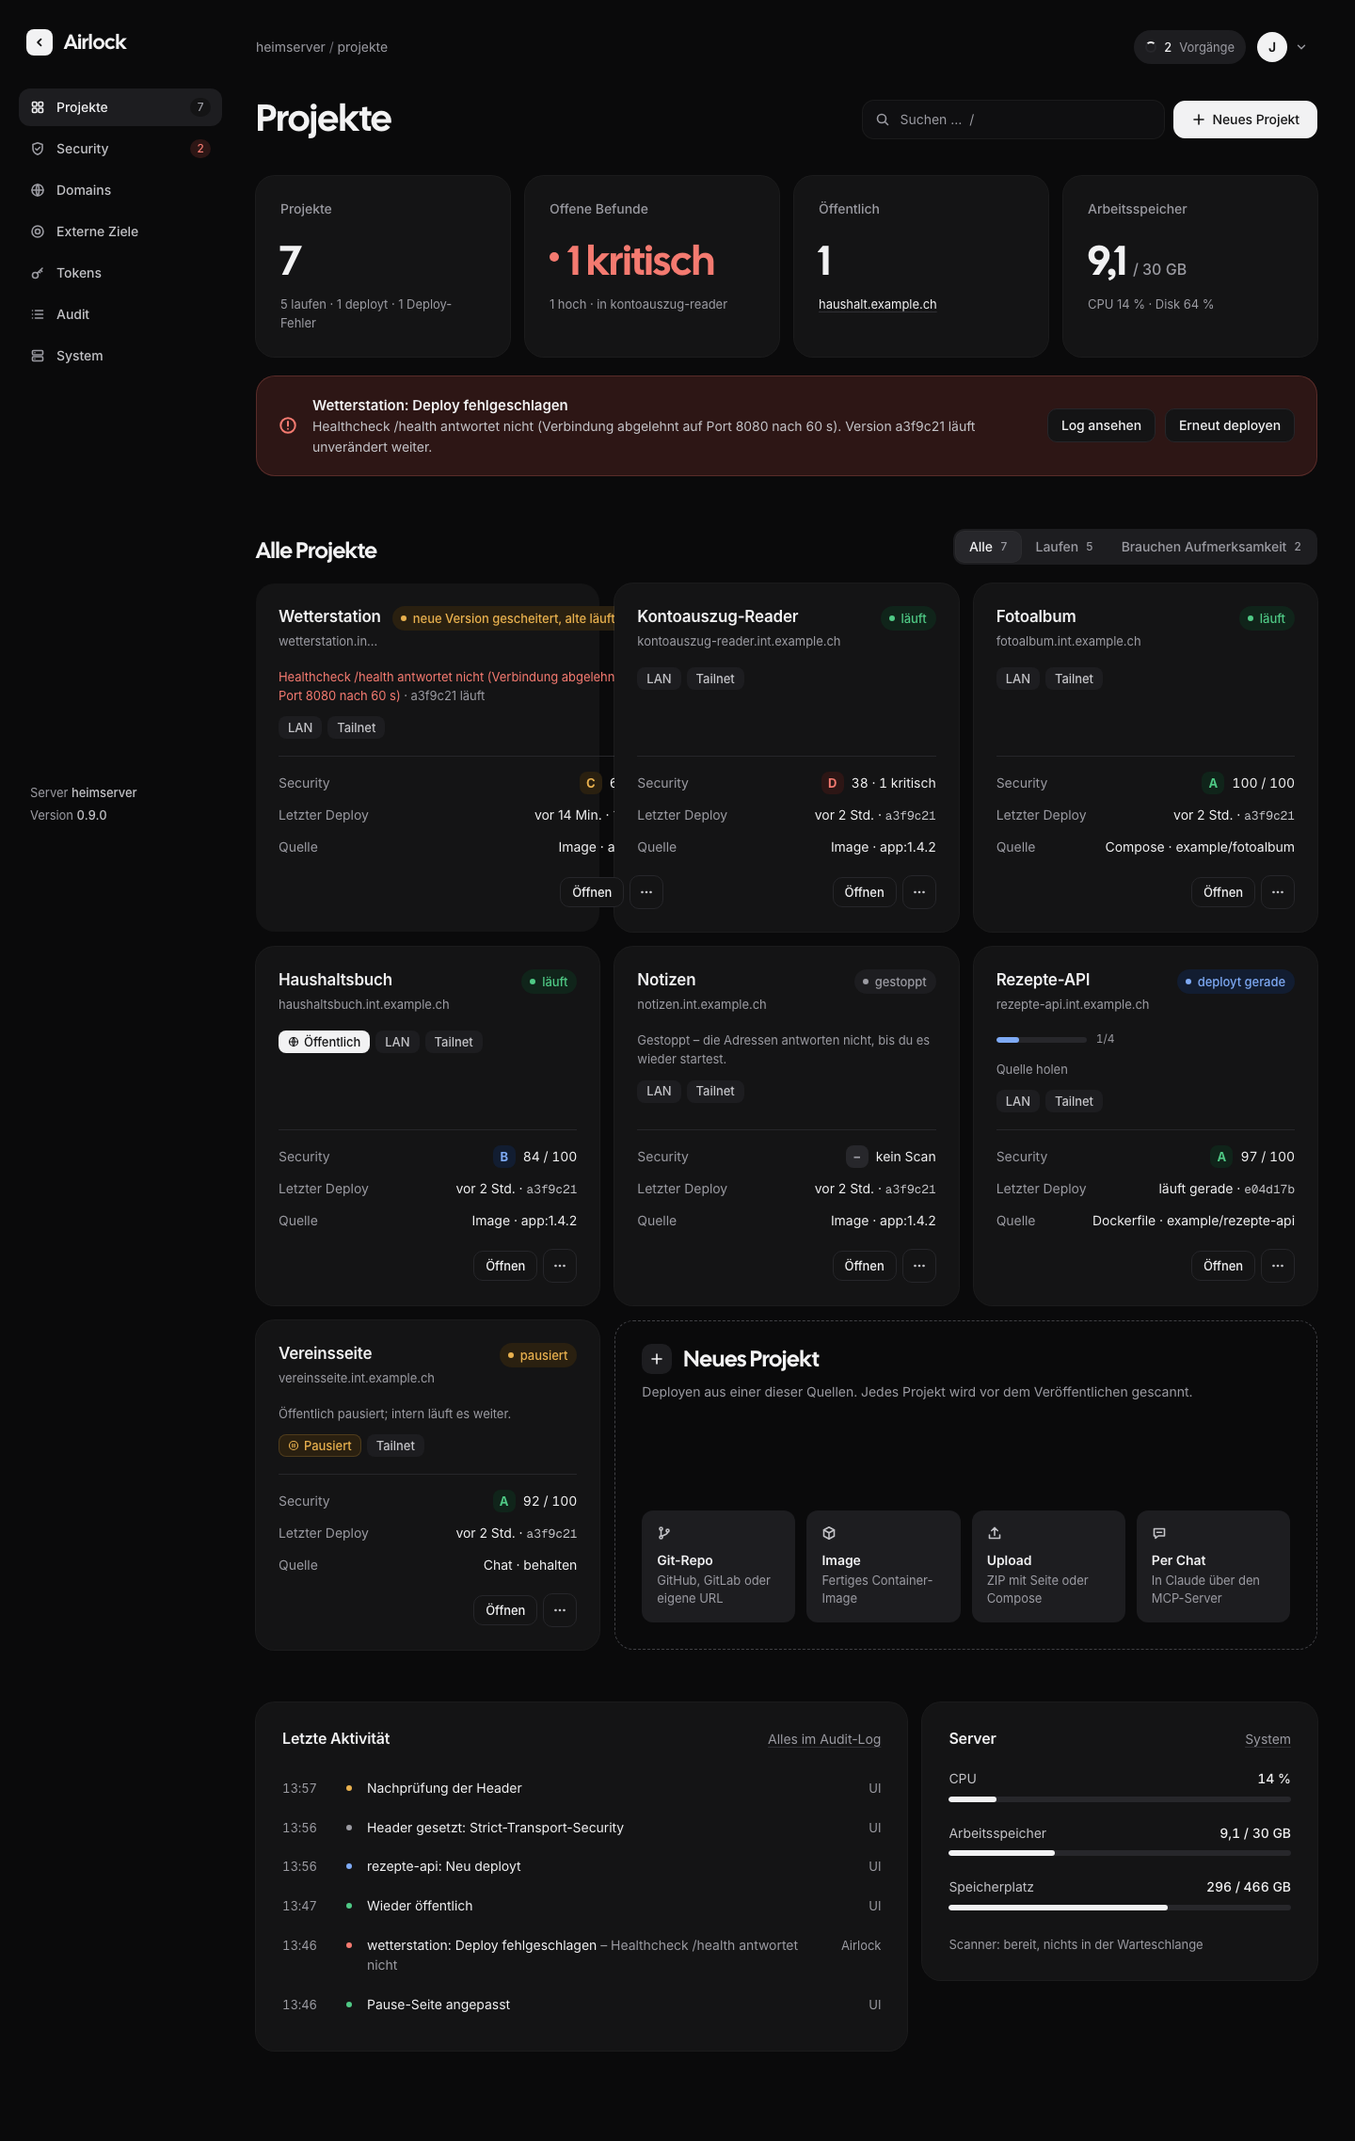
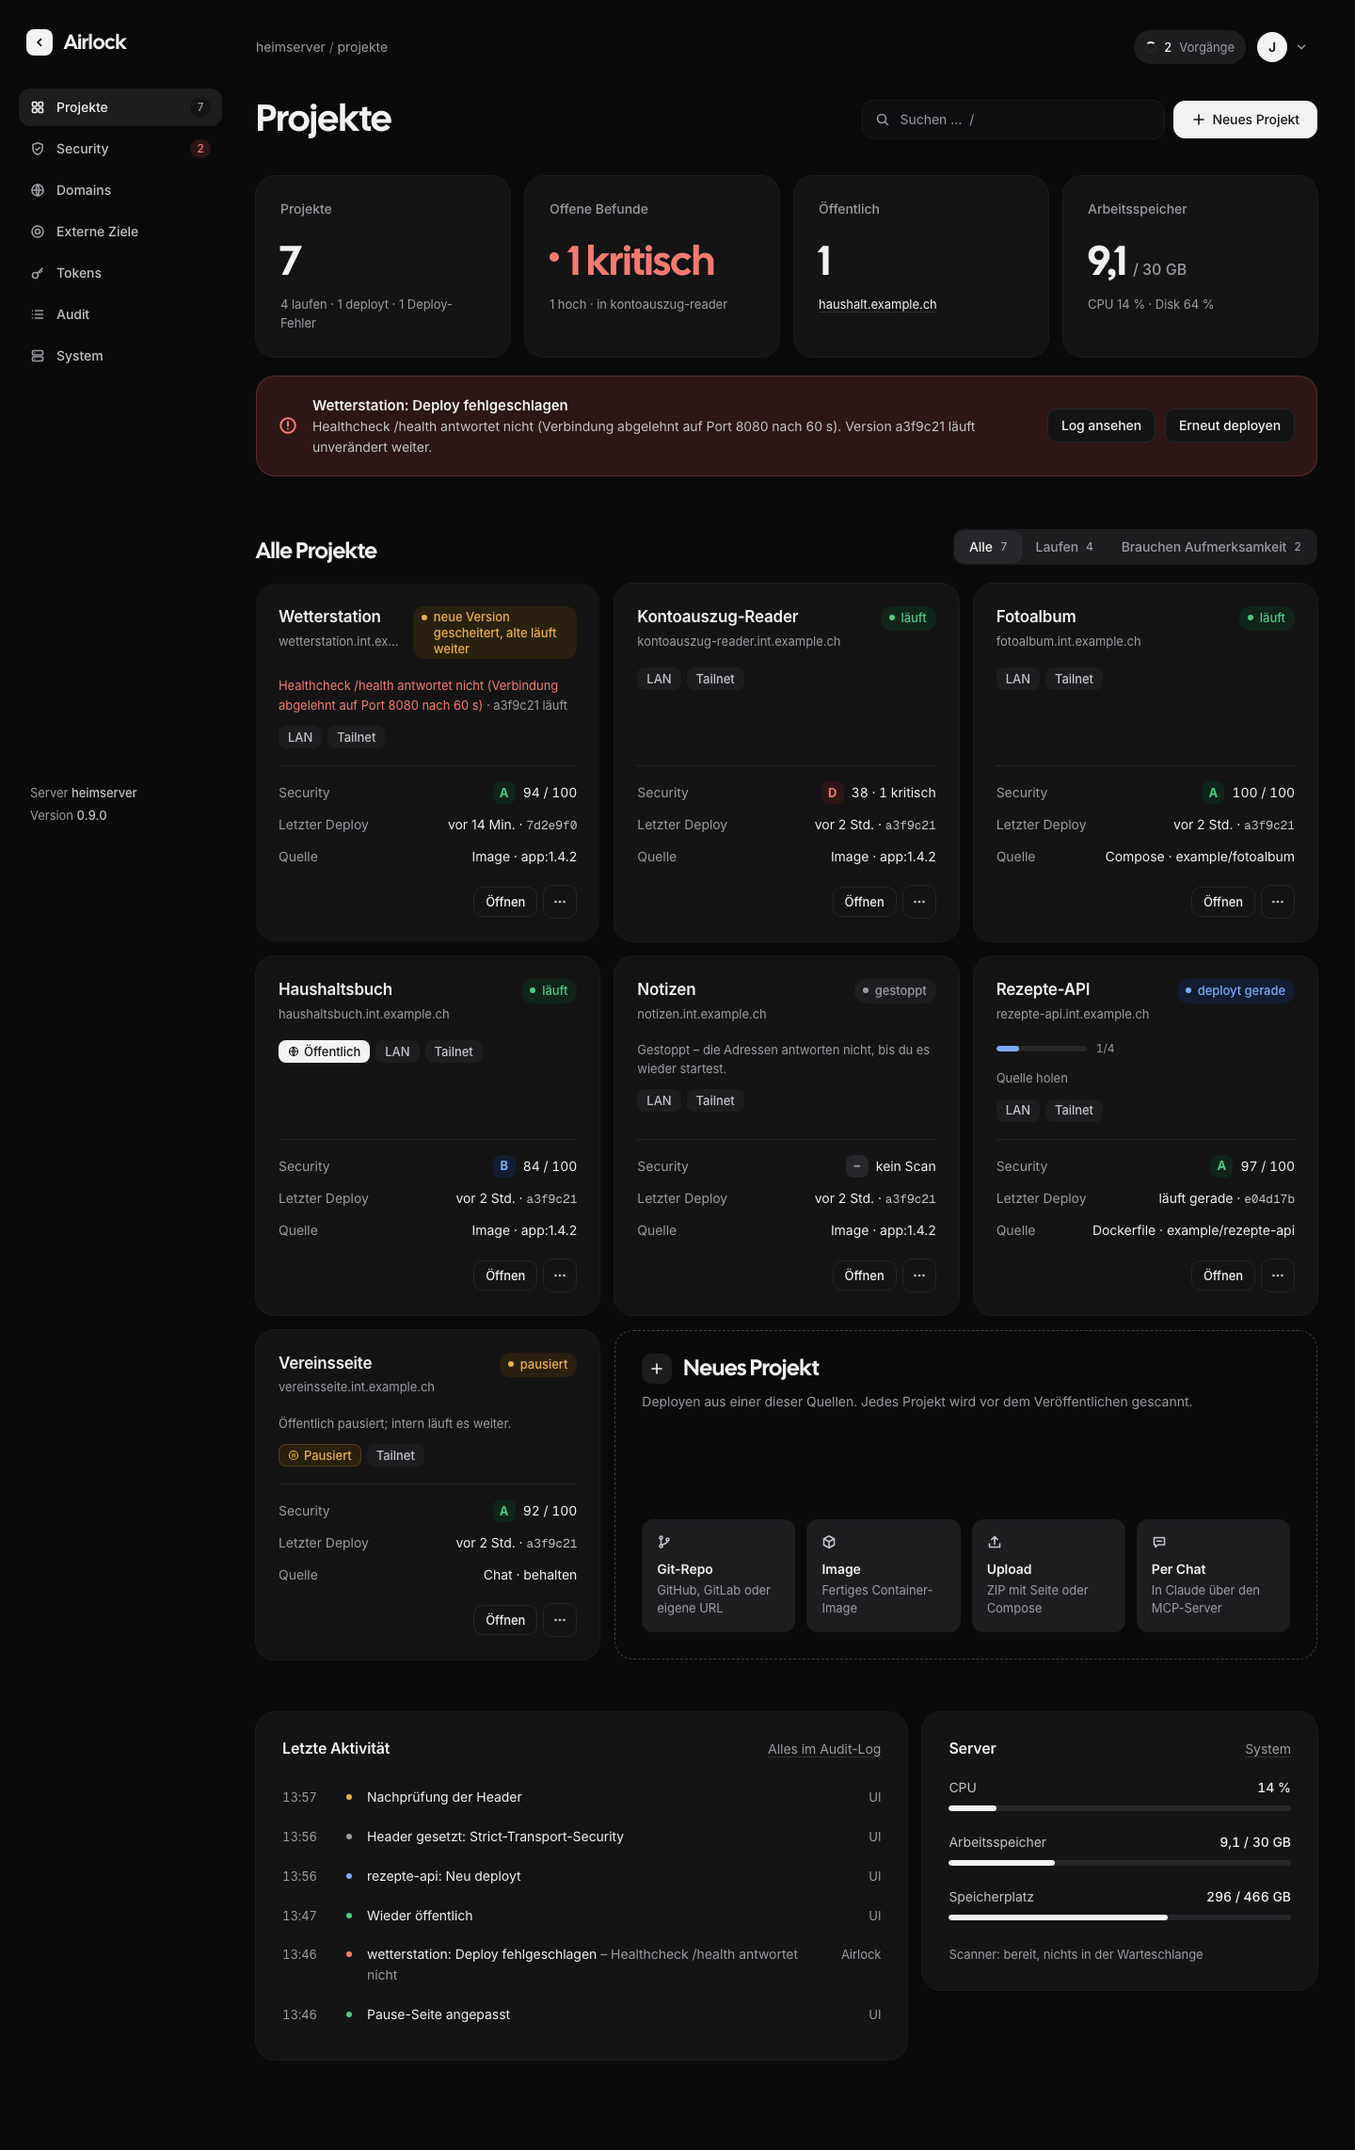
UI-Qualität 1: Befunde aus dem Gutachten
- projectState: «keine aktive Fassung» vor «gestoppt»; erster Deploy gescheitert = «nichts läuft» mit Grund (Test)
- Neustart von Airlock: hängende Deploys als gescheitert markiert, Projektstatus zurückgesetzt
- forgetContainer nach Start, Stopp und Deploy; MCP liefert state/state_label/state_detail
- eine Definition «Deploy gescheitert»; Kennzahl «laufen» = Filter «Laufen» (Test in konsistenz.spec)
- lange Zustands-Pille bricht in der Karte um; Fixture Wetterstation stimmig (94, A, 2 niedrig)

Geänderte Bilder (hell und dunkel):
- projekte, projekte-anzahl-1: Pille bricht um, «Laufen 4» statt 5, Wetterstation A 94
- projekt-fehler: Security-Karte der Wetterstation mit den gezählten Werten
- kuerzel, palette, palette-offline, aktion-vorgaenge, shell-profilmenue, zustand-veraltet:
  Projektliste im Hintergrund (gleiche Gründe wie projekte)
- security-global: Wetterstation mit A 94 und 2 niedrigen Befunden
- design-bausteine: Zustands-Pillen mit Umbruch-Regel

diff --git a/packages/web/src/pages/Projects.tsx b/packages/web/src/pages/Projects.tsx
@@ -11,7 +11,7 @@ import { RowMenu } from '../components/RowMenu.js'
 import { OfflineMenuItems, StopStartMenuItems, type MenuConfirm } from '../components/ProjectMenuItems.js'
 import { IconAlert, IconBox, IconChat, IconGit, IconPlus, IconSearch, IconUpload, IconWarn } from '../components/Icons.js'
 import { useSystem } from '../components/ServerName.js'
-import { useProjects, attention, deployFailedState, isLive, isPublic, urgency } from '../lib/projects.js'
+import { useProjects, attention, deployFailedState, isPublic, isRunningOk, urgency } from '../lib/projects.js'
 import { relativeTime, clockOrDay, gb, pct, shortVersion, KIND_LABEL, actorLabel, auditTone, describeAudit } from '../lib/format.js'
 import { ageMs, fmtDateTime } from '../lib/dates.js'
 import { notifyOk } from '../lib/feedback.js'
@@ -50,7 +50,7 @@ export function Projects() {
   const list = projects.data?.projects ?? []
   const counts = useMemo(() => ({
     alle: list.length,
-    laufen: list.filter(isLive).length,
+    laufen: list.filter(isRunningOk).length,
     aufmerksamkeit: list.filter((p) => attention(p)).length,
   }), [list])
   // Bei wenigen Projekten sagt der Filter nichts, was das Raster nicht schon zeigt
@@ -60,7 +60,7 @@ export function Projects() {
   const shown = useMemo(() => {
     const q = query.trim().toLowerCase()
     return list
-      .filter((p) => view === 'alle' || (view === 'laufen' ? isLive(p) : attention(p)))
+      .filter((p) => view === 'alle' || (view === 'laufen' ? isRunningOk(p) : attention(p)))
       .filter((p) => !q || p.name.toLowerCase().includes(q) || p.slug.includes(q) || p.routes.some((r) => r.hostname.includes(q)))
       // Dringendes zuerst, dann nach Name
       .sort((a, b) => urgency(b) - urgency(a) || a.name.localeCompare(b.name, 'de-CH'))
@@ -171,7 +171,8 @@ export function Projects() {
 
 function Stats({ list, system }: { list: ProjectDto[]; system: SystemStatusDto | undefined }) {
   // Zählung aus p.state (gleiche Quelle wie Pillen und Karten)
-  const running = list.filter(isLive).length
+  // «laufen» ohne die mit gescheitertem Deploy (die stehen als «Deploy-Fehler» daneben, nicht doppelt) – wie der Filter
+  const running = list.filter(isRunningOk).length
   const deploying = list.filter((p) => p.state.key === 'deploying').length
   const failedCount = list.filter((p) => p.state.key === 'failed_old_running' || p.state.key === 'down').length
   const all = sumCounts(list.map((p) => p.security?.open))

diff --git a/packages/api/src/jobs/reconcile.ts b/packages/api/src/jobs/reconcile.ts
@@ -1,4 +1,4 @@
-import { eq, and } from 'drizzle-orm'
+import { eq, and, inArray } from 'drizzle-orm'
 import { db, schema } from '../db/index.js'
 import { config } from '../config.js'
 import * as docker from '../drivers/docker.js'
@@ -14,12 +14,33 @@ import { isProjectScoped } from '../lib/names.js'
  * selbst wieder" ab und raeumt auf, was ein Absturz hinterlassen hat.
  */
 export async function reconcileOnBoot(): Promise<void> {
+  await abandonUnfinishedDeploys()
   await detachFromProjectNetworks()
   await restoreDesiredState()
   await reportLegacy()
   // Basisdomain gesetzt oder geaendert? Dann ziehen bestehende Adressen mit.
   await rehostRoutes()
   await reconcileCaddy()
+}
+
+/**
+ * Deploys, die ein Neustart von Airlock unterbrochen hat, laufen nicht weiter
+ * (die Pipeline lebt im Prozess). Ohne Aufräumen stünde das Projekt für immer
+ * auf «deployt gerade». Die alte Fassung bleibt aktiv; der Status kehrt auf
+ * «running» bzw. – ohne aktive Fassung – auf «failed» zurück.
+ */
+async function abandonUnfinishedDeploys(): Promise<void> {
+  const open = await db.select().from(schema.deployments).where(inArray(schema.deployments.status, ['pending', 'pulling', 'starting', 'healthchecking']))
+  for (const d of open) {
+    await db.update(schema.deployments).set({ status: 'failed', errorMessage: 'Abgebrochen durch Neustart von Airlock', finishedAt: new Date() }).where(eq(schema.deployments.id, d.id))
+    log.warn('Unterbrochenen Deploy als gescheitert markiert', { deployment: d.id, project: d.projectId })
+  }
+  const stuck = await db.select().from(schema.projects).where(eq(schema.projects.status, 'deploying'))
+  for (const p of stuck) {
+    const active = await db.select({ id: schema.deployments.id }).from(schema.deployments)
+      .where(and(eq(schema.deployments.projectId, p.id), eq(schema.deployments.isActive, true))).limit(1)
+    await setStatus(p.id, active[0] ? 'running' : 'failed')
+  }
 }
 
 /**

diff --git a/packages/shared/src/index.ts b/packages/shared/src/index.ts
@@ -701,13 +701,18 @@ export function projectState(p: {
   routes: { target: string; pausedAt?: string | null }[]
   container?: { running: boolean; missing?: boolean; exitCode?: number | null } | null
 }): ProjectStateDto {
-  const make = (key: ProjectStateKey, detail: string | null): ProjectStateDto => ({ key, ...STATE_TEXT[key], detail })
+  const make = (key: ProjectStateKey, detail: string | null, tone?: ProjectStateDto['tone']): ProjectStateDto => ({ key, ...STATE_TEXT[key], ...(tone ? { tone } : {}), detail })
   const last = p.lastDeployment
   if (p.status === 'deploying' || (last && DEPLOY_RUNNING.has(last.status))) return make('deploying', null)
-  if (p.desiredState === 'stopped') return make('stopped', 'Gestoppt – die Adressen antworten nicht, bis du es wieder startest.')
+  // Ohne aktive Fassung zuerst: Ein neues Projekt steht bis zum ersten erfolgreichen Deploy auf
+  // «stopped»; ein gescheiterter erster Deploy darf nicht als «gestoppt» erscheinen.
   if (!p.activeDeployment) {
-    return make('down', last?.status === 'failed' ? 'Der erste Deploy ist gescheitert; es gibt noch keine laufende Fassung.' : 'Es gibt noch keine laufende Fassung.')
+    return last?.status === 'failed'
+      ? make('down', 'Der erste Deploy ist gescheitert; es gibt noch keine laufende Fassung.')
+      // Noch nie deployt: kein Fehler, also neutral
+      : make('down', 'Noch nicht deployt.', 'neutral')
   }
+  if (p.desiredState === 'stopped') return make('stopped', 'Gestoppt – die Adressen antworten nicht, bis du es wieder startest.')
   if (p.container && !p.container.running) {
     return make('down', p.container.missing
       ? 'Der Container der aktiven Fassung fehlt.'

diff --git a/packages/web/src/lib/projects.ts b/packages/web/src/lib/projects.ts
@@ -39,8 +39,11 @@ export const hasPublicName = (p: ProjectDto) => p.routes.some((r) => r.target ==
  * läuft etwas (auch wenn der neueste Deploy scheiterte oder öffentlich pausiert)?
  */
 export const isLive = (p: ProjectDto) => p.state.key === 'running' || p.state.key === 'failed_old_running' || p.state.key === 'paused'
+/** Zählt als «läuft» in Kennzahl und Filter: läuft oder pausiert – gescheiterte stehen unter «Aufmerksamkeit» */
+export const isRunningOk = (p: ProjectDto) => p.state.key === 'running' || p.state.key === 'paused'
 /** Gescheiterter Deploy, der Aufmerksamkeit braucht (alte Fassung läuft weiter oder gar nichts) */
-export const deployFailedState = (p: ProjectDto) => p.state.key === 'failed_old_running' || (p.state.key === 'down' && p.lastDeployment?.status === 'failed')
+// Gilt für Liste, Filter, Hinweise UND Fehlerbox der Projektseite (eine Definition)
+export const deployFailedState = (p: ProjectDto) => p.state.key === 'failed_old_running' || (p.state.key === 'down' && !p.activeDeployment && p.lastDeployment?.status === 'failed')
 
 /** Reihenfolge nach Dringlichkeit: Fehler, kritisch, hoch, bald ablaufend, Rest nach Name. */
 export function urgency(p: ProjectDto): number {

diff --git a/packages/web/design-shots/fixtures.ts b/packages/web/design-shots/fixtures.ts
@@ -89,7 +89,8 @@ export const projects: ProjectDto[] = [
   project({
     id: 'p-wetter', name: 'Wetterstation', slug: 'wetterstation', status: 'failed',
     lastDeployment: dep('p-wetter', 9, { status: 'failed', startedAt: ago(14 * MIN), finishedAt: ago(13 * MIN), durationMs: 52_000, errorMessage: 'Healthcheck /health antwortet nicht (Verbindung abgelehnt auf Port 8080 nach 60 s)', canRollback: false }),
-    security: { scanId: 'p-wetter-s', status: 'done', score: 61, grade: 'C', finishedAt: ago(2 * DAY), open: { critical: 0, high: 2, medium: 4, low: 2 } },
+    // Note passend zu den gezählten Befunden (zwei niedrige offen)
+    security: { scanId: 'p-wetter-s', status: 'done', score: 94, grade: 'A', finishedAt: ago(2 * DAY), open: { critical: 0, high: 0, medium: 0, low: 2 } },
   }),
   project({
     id: 'p-rezepte', name: 'Rezepte-API', slug: 'rezepte-api', status: 'deploying', runtimeKind: 'dockerfile', sourceType: 'dockerfile', source: { type: 'dockerfile', repoUrl: 'https://github.com/example/rezepte-api.git', ref: 'main', dockerfile: 'Dockerfile', context: '.' } as ProjectDto['source'],

diff --git a/packages/api/src/domain/project-state.test.ts b/packages/api/src/domain/project-state.test.ts
@@ -42,6 +42,17 @@ describe('Projektzustand: eine Quelle für Pille, Unterzeile, Fehlerbox, Liste',
     assert.match(projectState({ ...base, container: { running: false, exitCode: 137 } }).detail!, /Exit-Code 137/)
   })
 
+  test('neues Projekt (desiredState stopped): erster Deploy gescheitert ist nicht «gestoppt»', () => {
+    const s = projectState({ ...base, desiredState: 'stopped', status: 'failed', activeDeployment: null, lastDeployment: dep('d1', 'failed') })
+    assert.equal(s.key, 'down')
+    assert.equal(s.tone, 'bad')
+    assert.match(s.detail!, /erste Deploy ist gescheitert/)
+    // Noch nie deployt: nichts läuft, aber neutral (kein Fehler)
+    const fresh = projectState({ ...base, desiredState: 'stopped', status: 'created', activeDeployment: null, lastDeployment: null })
+    assert.equal(fresh.key, 'down')
+    assert.equal(fresh.tone, 'neutral')
+  })
+
   test('pausiert (öffentlich), intern läuft es weiter', () => {
     const s = projectState({ ...base, routes: [{ target: 'public', pausedAt: '2026-11-10T10:00:00Z' }] })
     assert.equal(s.key, 'paused')

diff --git a/packages/api/src/domain/lifecycle.ts b/packages/api/src/domain/lifecycle.ts
@@ -1,4 +1,5 @@
 import * as docker from '../drivers/docker.js'
+import { forgetContainer } from '../jobs/monitor.js'
 import { findProject, setDesiredState, setStatus, touchActivity } from './projects.js'
 import { activeDeployment, effectiveKind } from './deployments.js'
 import { reconcileCaddy } from './routes.js'
@@ -19,6 +20,7 @@ export async function startProject(
   actor: string,
 ): Promise<{ started: boolean; deployment?: DeploymentDto }> {
   const project = await findProject(idOrSlug)
+  forgetContainer(project.id)
   await setDesiredState(project.id, 'running')
   // Ein Start von Hand ist Aktivität: sonst stoppte der Ablauf-Job ein
   // abgelaufenes Chat-Projekt in der nächsten Stunde wieder.
@@ -93,6 +95,7 @@ export async function restartProject(idOrSlug: string, actor: string): Promise<{
 
 export async function stopProject(idOrSlug: string, actor: string): Promise<void> {
   const project = await findProject(idOrSlug)
+  forgetContainer(project.id)
   await setDesiredState(project.id, 'stopped')
 
   const managed = await docker.listManagedContainers()

diff --git a/packages/web/src/styles.css b/packages/web/src/styles.css
@@ -1420,6 +1420,9 @@ button[aria-disabled='true'] { opacity: 0.5; cursor: not-allowed; }
 .pcard-bad { box-shadow: 0 0 0 1px var(--bad-line), var(--sh-btn); }
 .pcard-head { display: flex; justify-content: space-between; align-items: flex-start; gap: var(--sp-3); }
 .pcard-title { min-width: 0; display: grid; gap: var(--sp-1); }
+/* Lange Zustände («neue Version gescheitert, alte läuft weiter») brechen in der Karte um, statt sie zu sprengen */
+.pcard-head .status { flex: 0 1 auto; min-width: 0; max-width: 55%; height: auto; min-height: 26px; padding-top: 3px; padding-bottom: 3px; white-space: normal; line-height: 1.3; border-radius: var(--r-md); }
+.pcard-head .status-dot { align-self: flex-start; margin-top: 6px; }
 .pcard-title h3 { margin: 0; font-size: 17px; font-weight: 600; letter-spacing: -0.012em; }
 .pcard-link { color: var(--ink); text-decoration: none; }
 /* Ganze Karte klickbar; Pillen und Aktionen liegen darüber */

diff --git a/packages/web/src/components/ProjectOverview.tsx b/packages/web/src/components/ProjectOverview.tsx
@@ -13,6 +13,7 @@ import { IconWarn } from './Security.js'
 import { DeployList, useDeployments } from './DeployList.js'
 import { SecurityCard } from './SecurityCard.js'
 import { KeyFacts } from './KeyFacts.js'
+import { deployFailedState } from '../lib/projects.js'
 import { IconBad, IconOk, IconPending } from './Icons.js'
 import { EmptyState, ErrorState, Loading, PartialNote, Sk, SkLog, SkRows, errorReason } from './States.js'
 
@@ -50,7 +51,7 @@ export function ProjectOverview({
   const health = useProjectHealth(p)
   const h = health.data
   const live = st === 'running' || st === 'failed_old_running' || st === 'paused'
-  const deployFailed = p.lastDeployment?.status === 'failed' && (st === 'failed_old_running' || (st === 'down' && !p.activeDeployment))
+  const deployFailed = deployFailedState(p)
   const containerDown = st === 'down' && Boolean(p.activeDeployment)
 
   return (

diff --git a/packages/web/visual/konsistenz.spec.ts b/packages/web/visual/konsistenz.spec.ts
@@ -64,6 +64,16 @@ test('Seitenleiste und Security-Seite zählen dieselben kritischen und hohen Bef
   await page.context().close()
 })
 
+test('Kennzahl «laufen» = Zähler des Filters «Laufen»', async ({ browser }) => {
+  const page = await open(browser, '/projekte')
+  await page.locator('.stats').waitFor()
+  const sub = (await page.locator('.stat').filter({ hasText: 'Projekte' }).first().locator('.stat-sub').textContent()) ?? ''
+  const stat = Number(/(\d+) laufen/.exec(sub)?.[1] ?? -1)
+  const filter = num(await page.getByRole('button', { name: /^Laufen/ }).locator('.num').textContent())
+  expect(stat).toBe(filter)
+  await page.context().close()
+})
+
 test('Zustand: Pille der Karte = Pille im Projektkopf', async ({ browser }) => {
   const page = await open(browser, '/projekte')
   await page.locator('.pcards').waitFor()

diff --git a/packages/web/src/components/CommandPalette.tsx b/packages/web/src/components/CommandPalette.tsx
@@ -126,7 +126,7 @@ export function CommandPalette({ open, onClose }: { open: boolean; onClose: () =
     out.push({ id: 'act:token', group: 'Aktionen', label: 'Token erstellen', words: 'mcp claude anlegen', run: () => go('/tokens?neu=1') })
     for (const p of list) {
       // Gleiche Sperren wie Projektkopf und Security-Übersicht
-      const deploying = p.status === 'deploying' || (deploy.isPending && deploy.variables?.id === p.id)
+      const deploying = p.state.key === 'deploying' || (deploy.isPending && deploy.variables?.id === p.id)
       out.push({
         id: `act:deploy:${p.id}`, group: 'Aktionen', label: `Neu deployen · ${p.name}`, hint: p.slug, words: 'deploy',
         blocked: deploying ? 'Deploy läuft schon' : undefined,

diff --git a/packages/api/src/deploy/pipeline.ts b/packages/api/src/deploy/pipeline.ts
@@ -1,4 +1,5 @@
 import { eq, and, ne, desc } from 'drizzle-orm'
+import { forgetContainer } from '../jobs/monitor.js'
 import { existsSync } from 'node:fs'
 import { join } from 'node:path'
 import { db, schema, tryLockProject } from '../db/index.js'
@@ -270,6 +271,8 @@ async function run(
     }
 
     appendLine(deploymentId, `Fertig in ${Math.round((Date.now() - started) / 1000)} s`)
+    // Neuer Container: alter Zustand (z. B. «beendet») gilt nicht mehr
+    forgetContainer(projectId)
     await setStatus(projectId, 'running')
     await setDeployment(deploymentId, { status: 'active', isActive: true, finishedAt: new Date() })
     await lock.release()
